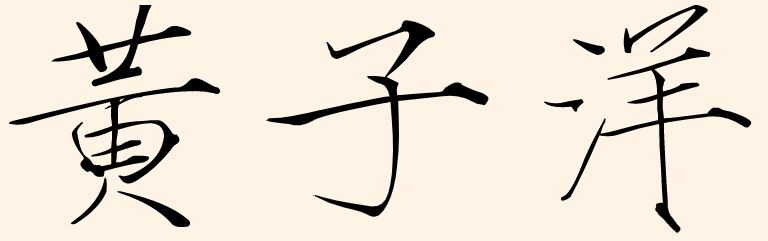
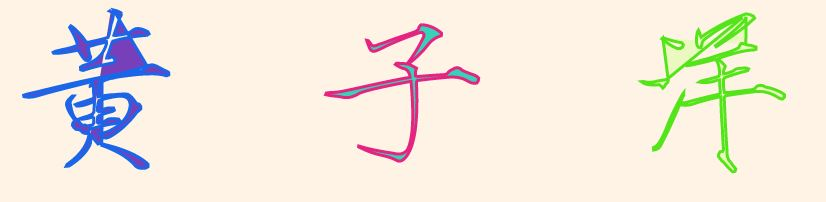
【Feat】 - lab07 change name color

Changed region(s): [[0.0, 0.0, 0.3125, 0.9505], [0.6875, 0.0297, 1.0, 0.9802], [0.3438, 0.0891, 0.6562, 0.9208]]

diff --git a/lab07/index.html b/lab07/index.html
@@ -111,14 +111,41 @@
                 d += data[i];
             }
 
+            const randomColor = (() => {
+                "use strict";
+
+                const randomInt = (min, max) => {
+                    return Math.floor(Math.random() * (max - min + 1)) + min;
+                };
+
+                return () => {
+                    var h = randomInt(0, 360);
+                    var s = randomInt(42, 98);
+                    var l = randomInt(40, 90);
+                    return `hsl(${h},${s}%,${l}%)`;
+                };
+            })();
+
             d3.select(pathId)
                 .attr("d", circle)
                 .transition()
                 .duration(4000)
                 .on("start", function repeat() {
                     d3.active(this)
+                        .attrTween("fill", function(d) {
+                            return d3.interpolateRgb(randomColor(), randomColor());
+                        })
+                        .attrTween("stroke", function(d) {
+                            return d3.interpolateRgb(randomColor(), randomColor());
+                        })
                         .attrTween("d", pathTween(d, 4))
                         .transition()
+                        .attrTween("fill", function(d) {
+                            return d3.interpolateRgb(randomColor(), randomColor());
+                        })
+                        .attrTween("stroke", function(d) {
+                            return d3.interpolateRgb(randomColor(), randomColor());
+                        })
                         .attrTween("d", pathTween(circle, 4))
                         .transition()
                         .on("start", repeat);
